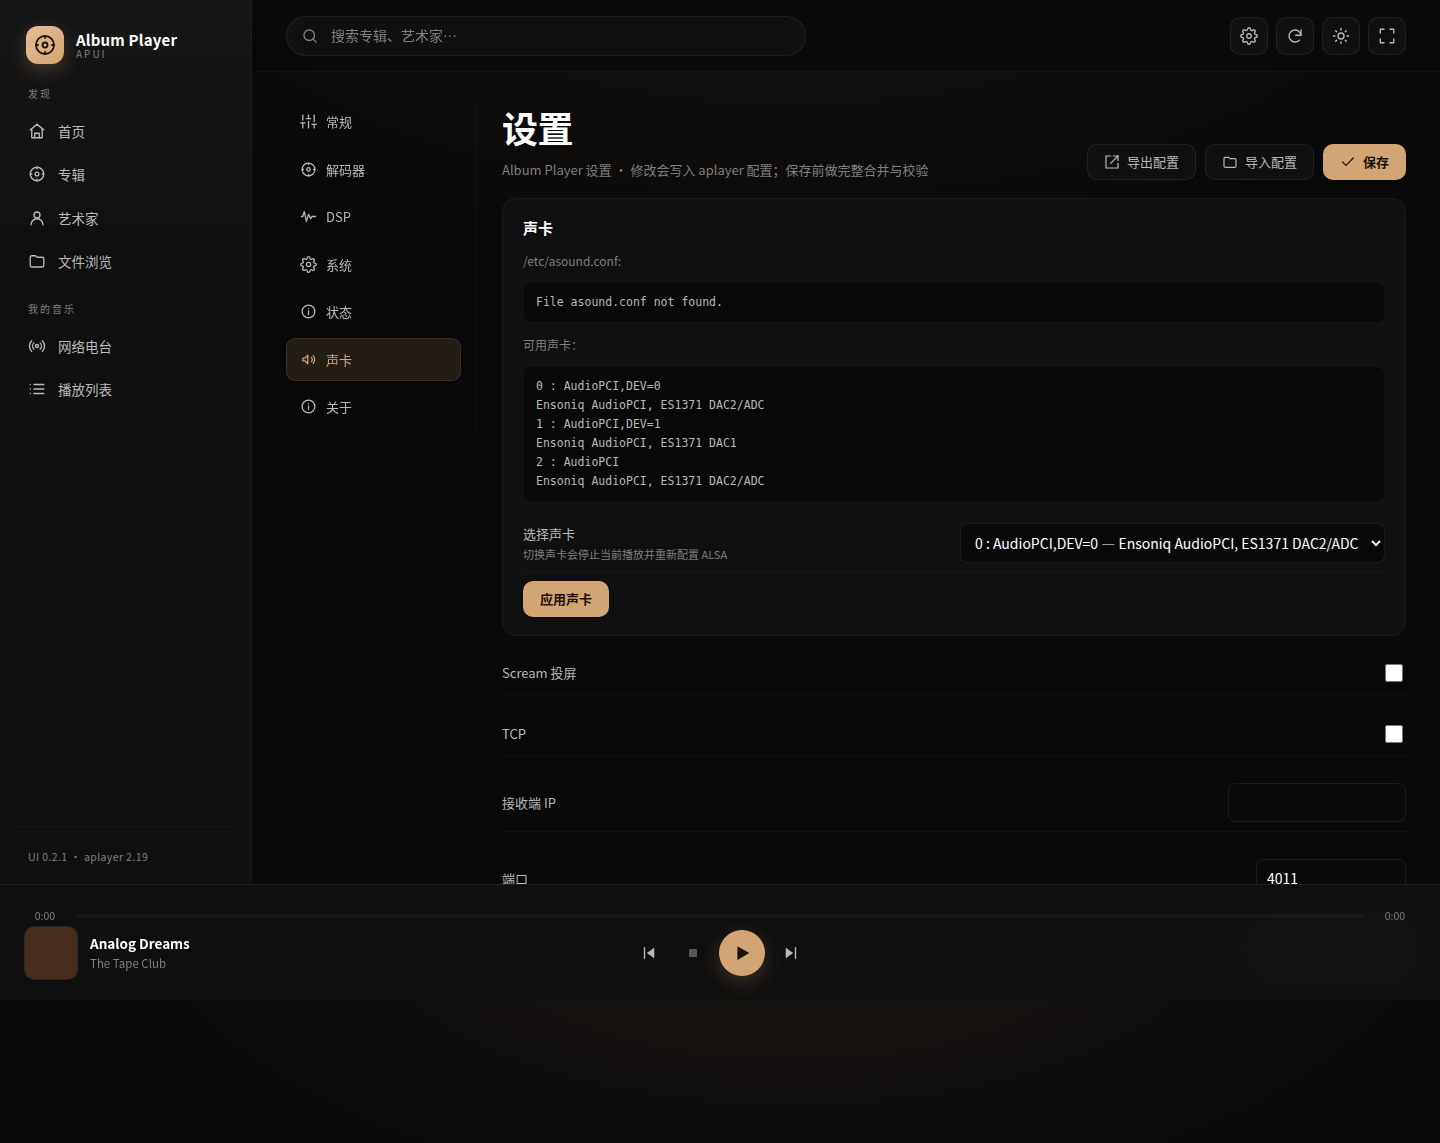
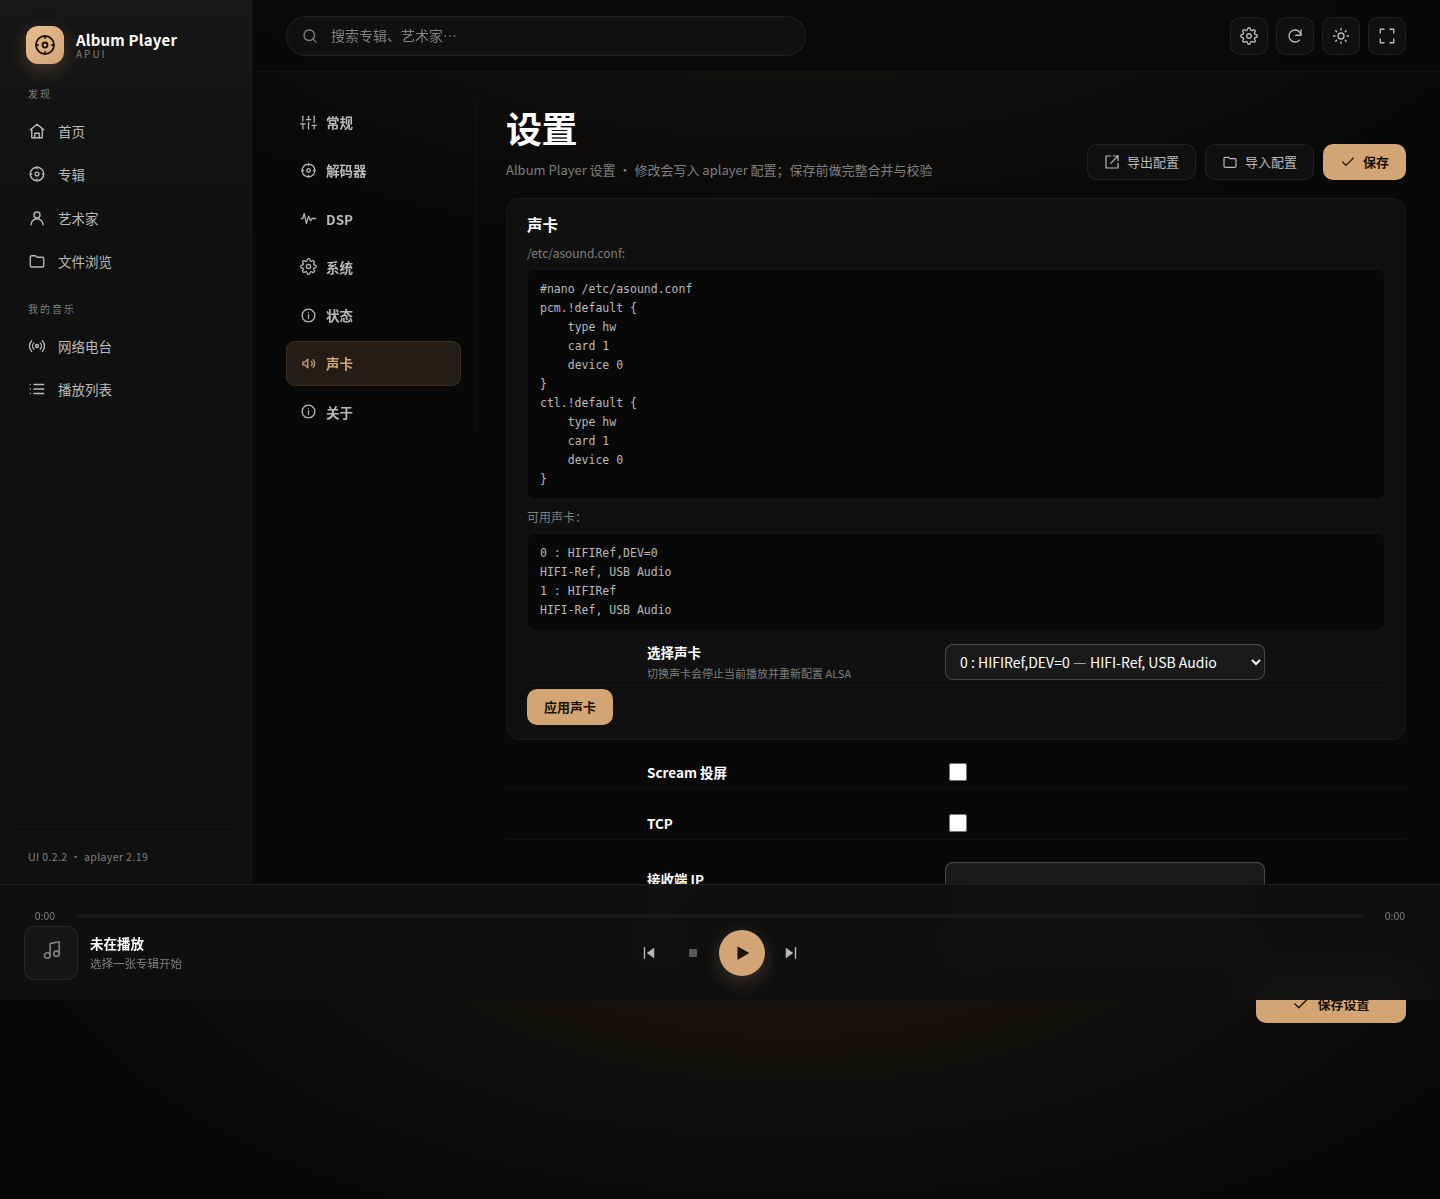
Release 0.2.2: compact centered settings layout and input contrast

diff --git a/web/src/styles.css b/web/src/styles.css
@@ -28,6 +28,7 @@
 }
 
 [data-theme="light"] {
+  --input-bg: #fff;
   --bg-primary: #f4f1ec;
   --bg-secondary: #fff;
   --bg-tertiary: #f7f4ef;
@@ -324,25 +325,27 @@ button:disabled { cursor: not-allowed; opacity: .42; }
 .tab-btn:hover { color: var(--text-primary); }
 .tab-btn.active { color: var(--accent); border-bottom-color: var(--accent); }
 .settings-form { display: flex; flex-direction: column; gap: 18px; }
-.settings-section { border: 1px solid var(--border-soft); border-radius: var(--radius); background: var(--bg-secondary); padding: 18px 20px; display: flex; flex-direction: column; gap: 8px; }
-.settings-section h3 { margin: 0 0 4px; font-size: 15px; }
+.settings-section { border: 1px solid var(--border-soft); border-radius: var(--radius); background: var(--bg-secondary); padding: 14px 20px; display: flex; flex-direction: column; gap: 3px; }
+.settings-section h3 { margin: 0 0 4px; font-size: 15.5px; font-weight: 650; letter-spacing: -.1px; }
 .settings-section.warning { border-color: rgba(227,181,95,.25); background: rgba(227,181,95,.045); }
-.setting-row { display: flex; align-items: center; justify-content: space-between; gap: 24px; padding: 9px 0; border-bottom: 1px solid var(--border-soft); }
+.setting-row { display: grid; grid-template-columns: minmax(190px, 260px) minmax(220px, 320px); justify-content: center; align-items: center; gap: 38px; padding: 4px 0; border-bottom: 1px solid var(--border-soft); }
 .setting-row:last-child { border-bottom: 0; }
-.setting-label { display: flex; flex-direction: column; gap: 2px; color: var(--text-secondary); font-size: 13px; }
-.setting-label small { color: var(--text-tertiary); font-size: 11px; }
-.input { background: var(--bg-primary); border: 1px solid var(--border); color: var(--text-primary); border-radius: 8px; padding: 8px 10px; min-width: 150px; }
-.input:focus { outline: 1px solid var(--accent); border-color: var(--accent); }
-.input-number { width: 150px; }
-.select { min-width: 180px; }
+.setting-label { display: flex; flex-direction: column; gap: 3px; color: var(--text-primary); font-size: 13.5px; font-weight: 600; }
+.setting-label small { color: var(--text-tertiary); font-size: 11px; font-weight: 400; }
+.input { width: 100%; min-width: 0; background: #191919; border: 1px solid rgba(255,255,255,.2); color: var(--text-primary); border-radius: 8px; padding: 6px 10px; font-weight: 500; box-shadow: inset 0 1px 0 rgba(255,255,255,.04); transition: border-color var(--transition), box-shadow var(--transition), background var(--transition); }
+.setting-row .input, .setting-row .select, .setting-row .range-wrap { width: 100%; }
+.input:hover { border-color: rgba(255,255,255,.3); background: #1d1d1d; }
+.input:focus { outline: none; border-color: var(--accent); box-shadow: 0 0 0 3px var(--accent-soft); background: #1d1d1d; }
+.input-number { width: 100%; }
+.select { min-width: 0; }
 .checkbox { width: 18px; height: 18px; accent-color: var(--accent); }
 .save-bar { display: flex; justify-content: flex-end; padding: 6px 0 4px; }
 .settings-page { padding-bottom: 6px; }
 .save-btn { min-width: 150px; }
 .stat-row { display: flex; justify-content: space-between; gap: 20px; padding: 7px 0; border-bottom: 1px solid var(--border-soft); font-size: 12.5px; }
 .stat-row:last-child { border-bottom: 0; }
-.stat-label { color: var(--text-tertiary); }
-.stat-value { color: var(--text-secondary); text-align: right; word-break: break-all; }
+.stat-label { color: var(--text-tertiary); font-weight: 600; }
+.stat-value { color: var(--text-secondary); text-align: right; word-break: break-all; font-weight: 600; }
 
 /* ---------- misc ---------- */
 .empty-state { min-height: 260px; display: flex; flex-direction: column; align-items: center; justify-content: center; gap: 9px; padding: 34px; text-align: center; color: var(--text-tertiary); border: 1px dashed var(--border); border-radius: var(--radius-lg); background: var(--bg-secondary); }
@@ -419,7 +422,8 @@ button:disabled { cursor: not-allowed; opacity: .42; }
   .radio-now { flex-direction: column; align-items: flex-start; }
   .radio-now-img, .radio-now-placeholder { width: 100%; height: 160px; }
   
-  .setting-row { align-items: flex-start; flex-direction: column; gap: 8px; }
+  .setting-row { grid-template-columns: 1fr; align-items: stretch; gap: 8px; }
+  .settings-group-title { margin-left: 0; margin-right: 0; max-width: none; }
   .input, .select { width: 100%; }
   .input-number { width: 100%; }
 }
@@ -450,7 +454,7 @@ button:disabled { cursor: not-allowed; opacity: .42; }
 }
 
 /* ---------- settings layout (official-style tabs) ---------- */
-.settings-layout { display: grid; grid-template-columns: 190px minmax(0, 1fr); gap: 26px; align-items: start; }
+.settings-layout { display: grid; grid-template-columns: 190px minmax(0, 1fr); gap: 30px; align-items: start; max-width: 1240px; margin: 0 auto; font-weight: 500; }
 .settings-nav {
   position: sticky; top: 92px; display: flex; flex-direction: column; gap: 4px;
   padding-right: 14px; border-right: 1px solid var(--border-soft);
@@ -458,22 +462,22 @@ button:disabled { cursor: not-allowed; opacity: .42; }
 .settings-nav-btn {
   display: flex; align-items: center; gap: 9px; width: 100%; padding: 11px 13px;
   border: 1px solid transparent; border-radius: 9px; background: transparent;
-  color: var(--text-secondary); font-size: 13px; text-align: left;
+  color: var(--text-secondary); font-size: 13.5px; font-weight: 600; text-align: left;
   transition: background var(--transition), color var(--transition);
 }
 .settings-nav-btn:hover { background: var(--bg-hover); color: var(--text-primary); }
 .settings-nav-btn.active { background: var(--accent-soft); color: var(--accent); border-color: var(--accent-soft); }
-.settings-body { min-width: 0; display: flex; flex-direction: column; gap: 16px; }
+.settings-body { min-width: 0; max-width: 980px; width: 100%; display: flex; flex-direction: column; gap: 16px; }
 .settings-header { margin-bottom: 2px; }
 .settings-header h1 { font-size: clamp(26px, 3vw, 36px); }
 .settings-subtabs { margin: 0 0 2px; }
 .settings-group-title {
-  margin: 18px 0 4px; color: var(--text-tertiary); font-size: 10.5px;
-  letter-spacing: 1.6px; text-transform: uppercase;
+  width: 620px; max-width: 100%; margin: 12px auto 2px; color: var(--text-tertiary); font-size: 10.5px;
+  letter-spacing: 1.6px; text-transform: uppercase; font-weight: 600;
 }
 .settings-form > .settings-group-title:first-child { margin-top: 0; }
 .range-wrap { display: flex; align-items: center; gap: 10px; }
-.range { width: 240px; accent-color: var(--accent); }
+.range { flex: 1; width: auto; accent-color: var(--accent); }
 .range-value { min-width: 62px; text-align: right; color: var(--text-secondary); font-size: 11.5px; font-variant-numeric: tabular-nums; }
 .mono-block {
   margin: 4px 0; padding: 10px 12px; border: 1px solid var(--border-soft); border-radius: 8px;
@@ -494,3 +498,8 @@ button:disabled { cursor: not-allowed; opacity: .42; }
   .settings-nav-btn { width: auto; white-space: nowrap; padding: 8px 11px; }
   .range { width: 180px; }
 }
+
+[data-theme="light"] .input { background: #fff; border-color: rgba(0,0,0,.2); box-shadow: 0 1px 2px rgba(0,0,0,.04); }
+[data-theme="light"] .input:hover { background: #fff; border-color: rgba(0,0,0,.32); }
+[data-theme="light"] .input:focus { background: #fff; }
+[data-theme="light"] .settings-section { background: #fff; }

diff --git a/docs/06-实施与验收记录.md b/docs/06-实施与验收记录.md
@@ -4,11 +4,11 @@
 
 | 项目 | 内容 |
 |---|---|
-| 版本 | APUI 0.2.1 |
+| 版本 | APUI 0.2.2 |
 | 日期 | 2026-10-29 |
 | 构建 | Vite 7.3.7 + TypeScript 5.9；单 JS/CSS |
-| 产物 | `release/apui-web-0.2.1.tar.gz`（44 KB） |
[1 lines of base64/hex data omitted]
+| 产物 | `release/apui-web-0.2.2.tar.gz`（44 KB） |
[1 lines of base64/hex data omitted]
 | 兼容 | Album Player for Linux 2.19（ARM64 / x86_64） |
 | 结论 | MVP 已实现并在 `.133` / `.230` / `.137` 部署；`.137` 实机真实播放通过 |
 
@@ -69,8 +69,8 @@
 │   ├── uninstall.sh
 │   └── dist/
 ├── release/
-│   ├── apui-web-0.2.1.tar.gz
-│   └── apui-web-0.2.1.tar.gz.sha256
+│   ├── apui-web-0.2.2.tar.gz
+│   └── apui-web-0.2.2.tar.gz.sha256
 ├── fixtures/aplayer/       # 从 .133 抓取的真实接口样本
 ├── docs/screenshots/       # 精选验收截图（脱敏）
 └── docs/                   # 本套文档
@@ -104,9 +104,9 @@ npm run package
 
 | 机器 | 角色 | APUI 状态 | aplayer 状态 | 最新备份（APUI 前） | 最早厂商 UI 备份 |
 |---|---|---|---|---|---|
-| `X86-BUILD-VM` | x86 构建/联调 | 已安装 `/opt/aplayer` | 已停止（测试后） | `/opt/aplayer-ui-backup-20261029-120007` | `/opt/aplayer-ui-backup-20261029-110247` |
-| `ARM-BUILD-HOST` | ARM 构建机 | 已安装 `/opt/aplayer` | 运行中（systemd enabled），7778 正在提供 APUI 0.2.1 | `/opt/aplayer-ui-backup-20261029-120010` | `/opt/aplayer-ui-backup-20261029-110732` |
-| `REAL-TEST-HOST` | Gentooplayer APUI 测试机 | 已安装 `/opt/aplayer` | 运行中，由现场测试项目使用；APUI 不停止/不重启 | `/opt/aplayer-ui-backup-20261029-120010` | 同上（含厂商 UI 备份） |
+| `X86-BUILD-VM` | x86 构建/联调 | 已安装 `/opt/aplayer` | 已停止（测试后） | `/opt/aplayer-ui-backup-20261029-121645` | `/opt/aplayer-ui-backup-20261029-110247` |
+| `ARM-BUILD-HOST` | ARM 构建机 | 已安装 `/opt/aplayer` | 运行中（systemd enabled），7778 正在提供 APUI 0.2.2 | `/opt/aplayer-ui-backup-20261029-121628` | `/opt/aplayer-ui-backup-20261029-110732` |
+| `REAL-TEST-HOST` | Gentooplayer APUI 测试机 | 已安装 `/opt/aplayer` | 运行中，由现场测试项目使用；APUI 不停止/不重启 | `/opt/aplayer-ui-backup-20261029-121646` | 同上（含厂商 UI 备份） |
 
 ### 3.1 `.133` 测试环境
 
@@ -118,7 +118,7 @@ npm run package
 ### 3.2 `.230`
 
 - APUI 热部署成功；7778 页面/JS/API 200；空库状态、设置、移动端正常。
-- 现场已将 `aplayer.service` 设为 enabled 并运行；当前 7778 提供 APUI 0.2.1（`ui/app-U3WoxD2R.js`）。
+- 现场已将 `aplayer.service` 设为 enabled 并运行；当前 7778 提供 APUI 0.2.2（`ui/app-DdppiJpo.js`）。
 
 ### 3.3 `.137`
 
@@ -131,7 +131,7 @@ npm run package
 
 ```bash
 # 在目标机执行；uninstall.sh 随安装包/部署目录提供
-sh /tmp/apui-web-0.2.1/uninstall.sh /opt/aplayer-ui-backup-20261029-120007 /opt/aplayer
+sh /tmp/apui-web-0.2.2/uninstall.sh /opt/aplayer-ui-backup-20261029-121645 /opt/aplayer
 ```
 
 - `.133` 已验证：恢复厂商 UI 后 `aplayer.html` md5 = `18f08f90b549b2646340d501a8761da0`；再装回 APUI md5 = `d9d6d61f334fd8f66cfab25f007c6637`。
@@ -286,6 +286,7 @@ init()
 
 | 版本 | 日期 | 变更 |
 |---|---|---|
+| 0.2.2 | 2026-10-29 | 设置页收窄居中、行距压缩、字体加粗、输入框可见性提升；三机部署 |
 | 0.2.1 | 2026-10-29 | 左侧移除系统分栏；右上角设置入口；关于合并进设置；设置参数中文化；三机部署 |
 | 0.2.0 | 2026-10-29 | 设置页按官方 7 主分页 + Decoder/DSP 子分页重构；补齐参数；三机部署；`.137` 实机播放通过 |
 | 0.1.0 | 2026-10-29 | 首个可部署 MVP：应用壳/专辑/播放/电台/列表/设置/文件浏览/移动端 |

diff --git a/README.md b/README.md
@@ -2,10 +2,10 @@
 
 GitHub: <https://github.com/harmonyosnews/album-player-ui>
 
-**APUI 0.2.1 已实现并部署。** 这是一个与 aplayer 同源的静态 SPA，替换 `/opt/aplayer/aplayer.html` 后由 aplayer 在 **7778** 端口提供；不新增服务/端口，不改音频引擎。
+**APUI 0.2.2 已实现并部署。** 这是一个与 aplayer 同源的静态 SPA，替换 `/opt/aplayer/aplayer.html` 后由 aplayer 在 **7778** 端口提供；不新增服务/端口，不改音频引擎。
 
-- 构建：Vite 7 + TypeScript；JS 65.4 KB（gzip 20.8 KB）、CSS 27.9 KB（gzip 6.1 KB）。
[1 lines of base64/hex data omitted]
+- 构建：Vite 7 + TypeScript；JS 65.4 KB（gzip 20.8 KB）、CSS 28.9 KB（gzip 6.4 KB）。
[1 lines of base64/hex data omitted]
 - 已验证：`.133`（x86 构建/联调）、`.230`（ARM 冒烟）、`.137`（Gentooplayer 实机真实 FLAC 44.1/16/2 播放）。
 - 验收记录：[docs/06-实施与验收记录.md](docs/06-实施与验收记录.md)。
 
@@ -66,14 +66,14 @@ cd web
 npm ci
 npm run build
 npm run check
-npm run package                     # 生成 release/apui-web-0.2.1.tar.gz
+npm run package                     # 生成 release/apui-web-0.2.2.tar.gz
 ```
 
 ### 安装（热替换，无需重启 aplayer）
 
 ```bash
-tar -xzf apui-web-0.2.1.tar.gz
-cd apui-web-0.2.1
+tar -xzf apui-web-0.2.2.tar.gz
+cd apui-web-0.2.2
 ./install.sh /opt/aplayer
 # 浏览器打开 http://<player>:7778/
 ```

diff --git a/docs/03-开发手册.md b/docs/03-开发手册.md
@@ -173,7 +173,7 @@ mock 的行为要与 [04-程序接口文档.md](04-程序接口文档.md) 的契
 
 代码已落地在 `web/`，并已在三台机器部署验证：
 
-- 构建：Vite 7.3.7 + TypeScript；`dist/ui/app-*.js` 约 **65.4 KB（gzip 20.8 KB）**，CSS 约 **27.9 KB（gzip 6.1 KB）**。
+- 构建：Vite 7.3.7 + TypeScript；`dist/ui/app-*.js` 约 **65.4 KB（gzip 20.8 KB）**，CSS 约 **28.9 KB（gzip 6.4 KB）**。
 - 已实现：应用壳/侧栏/顶栏/播放条/全屏播放、专辑/曲目/艺术家、搜索、网络电台（分类/电台/收藏/添加/删除）、播放列表与文件浏览（展开/折叠/载入）、设置（右上角入口；左侧无“系统”；常规/解码器/DSP/系统/状态/声卡/关于，参数中文化；关于合并进设置）、配置导出/导入、离线提示、移动端底部导航。
 - 自动载入：`GetAlbums` 为空且 `root_folder` 非空时，UI 调 `GetPlaylists(-1)` 找根目录索引 → `GetPlaylist(index)` → 重新 `GetAlbums`。
 - 关键 API 修正：`GetAlbums.Songs` 只含**当前专辑**；`GetSongs` 返回 `SongsLen`（ms）；`GetPlaylists&ind` 是展开/折叠**切换**；`GetAlbums` 是当前播放列表视图。

diff --git a/docs/01-实施方案.md b/docs/01-实施方案.md
@@ -7,7 +7,7 @@
 | 关联文档 | [00-可行性分析.md](00-可行性分析.md)、[02-项目书.md](02-项目书.md)、[03-开发手册.md](03-开发手册.md)、[04-程序接口文档.md](04-程序接口文档.md) |
 | 方案基线 | Album Player for Linux 2.19；TinyLMS 1.3.4 设计参考 |
 | 推荐方案 | **A：原位静态 UI 替换（MVP）**；B：伴生 Go 适配服务（二期可选） |
-| 实施状态 | Phase 0–2、构建/部署与首轮验收已完成（0.2.1）；DSD/部分 GUI 增删项待补，见 [06-实施与验收记录.md](06-实施与验收记录.md) |
+| 实施状态 | Phase 0–2、构建/部署与首轮验收已完成（0.2.2）；DSD/部分 GUI 增删项待补，见 [06-实施与验收记录.md](06-实施与验收记录.md) |
 
 ---
 

diff --git a/docs/00-可行性分析.md b/docs/00-可行性分析.md
@@ -8,7 +8,7 @@
 | 对象版本 | Album Player for Linux 2.19；TinyLMS 1.3.4 |
 | 结论 | **可行（有条件）**：建议采用“原位静态 UI 替换”方案先做 MVP；伴生适配服务作为二期增强 |
 | 证据 | 本文引用编号 E1–E13，详见 [05-实测证据与复现.md](05-实测证据与复现.md) |
-| 实施状态 | **MVP 0.2.1 已实现并部署**；实施/验收见 [06-实施与验收记录.md](06-实施与验收记录.md) |
+| 实施状态 | **MVP 0.2.2 已实现并部署**；实施/验收见 [06-实施与验收记录.md](06-实施与验收记录.md) |
 
 ---
 

diff --git a/docs/02-项目书.md b/docs/02-项目书.md
@@ -11,7 +11,7 @@
 | 预算等级 | 内部人力项目；无软件许可采购 |
 | 建议周期 | 8 周（含 1 周缓冲） |
 | 立项结论 | 建议立项，按“原位静态 UI 替换”MVP 推进 |
-| 实施状态 | MVP 0.2.1 已实现并部署；见 [06-实施与验收记录.md](06-实施与验收记录.md) |
+| 实施状态 | MVP 0.2.2 已实现并部署；见 [06-实施与验收记录.md](06-实施与验收记录.md) |
 
 ---
 
